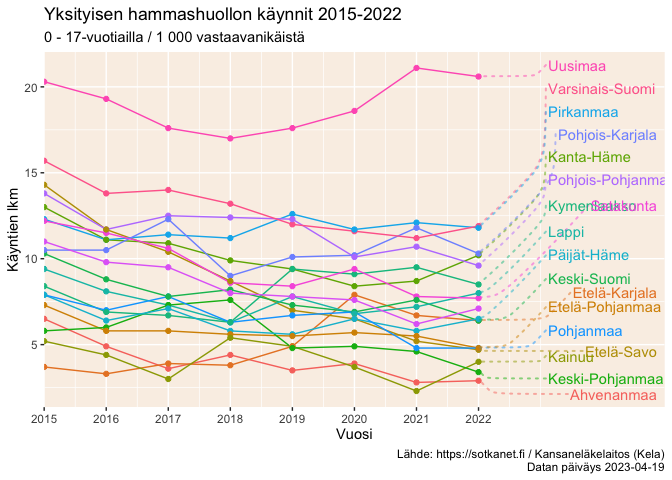
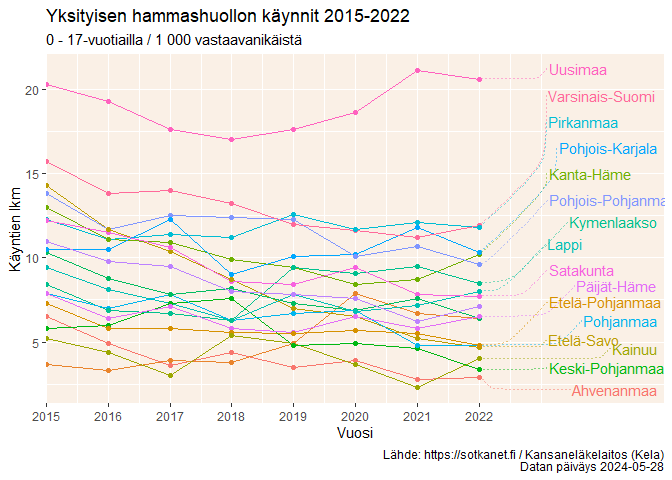
Update README

diff --git a/README.md b/README.md
@@ -72,8 +72,8 @@ List available indicators in the Sotkanet data portal:
 
 ``` r
 # Pre-defined list of indicators to save bandwidth
-sotkanet.indicators <- SotkanetIndicators(c(4,5,6,7,46,74))
-head(sotkanet.indicators$indicator.title.fi)
+sotkanet.indicators <- sotkanet_indicators(c(4,5,6,7,46,74))
+head(sotkanet.indicators$indicator.title)
 #> [1] "Mielenterveyden häiriöihin sairaalahoitoa saaneet 0 - 17-vuotiaat / 1 000 vastaavan ikäistä"             
 #> [2] "Toimeentulotukea saaneet 25 - 64-vuotiaat, % vastaavan ikäisestä väestöstä"                              
 #> [3] "Somaattisen erikoissairaanhoidon vuodeosastohoitopäivät 75 vuotta täyttäneillä / 1 000 vastaavan ikäistä"
@@ -89,24 +89,24 @@ describing private dental care use among 0-17 years old in 2015-2022.
 library(ggplot2)
 library(ggrepel)
 
-hammashoito <- GetDataSotkanet(indicators = 1075, years = 2015:2022, genders = "total", region.category = "MAAKUNTA")
+hammashoito <- get_sotkanet(indicators = 1075, years = 2015:2022, genders = "total", region.category = "MAAKUNTA")
 
 # Indicator title tells what this indicator is about
-unique(hammashoito$indicator.title.fi)
+unique(hammashoito$indicator.title)
 #> [1] "Yksityisen hammashuollon käynnit 0 - 17-vuotiailla / 1 000 vastaavan ikäistä"
 ```
 
 ``` r
 
 # Some data has to be retrieved separately
-hammashoito_metadata <- SotkanetIndicatorMetadata(id = 1075)
+hammashoito_metadata <- sotkanet_indicator_metadata(id = 1075)
 
-plot_caption <- paste0("Lähde: https://sotkanet.fi / ", hammashoito_metadata$organization$title$fi, "\n",
+plot_caption <- paste0("Lähde: https://sotkanet.fi / ", hammashoito_metadata$organization$title, "\n",
                        "Datan päiväys ", hammashoito_metadata$`data-updated`)
 
-plot <- ggplot(hammashoito, aes(x=year, y=primary.value, group=region.title.fi))+
-  geom_line(aes(color=region.title.fi)) +
-  geom_point(aes(color=region.title.fi))
+plot <- ggplot(hammashoito, aes(x=year, y=primary.value, group=region.title))+
+  geom_line(aes(color=region.title)) +
+  geom_point(aes(color=region.title))
 
 plot + labs(title = "Yksityisen hammashuollon käynnit 2015-2022",
             subtitle = "0 - 17-vuotiailla / 1 000 vastaavanikäistä",
@@ -115,7 +115,7 @@ plot + labs(title = "Yksityisen hammashuollon käynnit 2015-2022",
             caption = plot_caption,
             color = "Maakunta") +
   geom_text_repel(
-    aes(color = region.title.fi, label = ifelse(year == 2022, region.title.fi, NA_character_)),
+    aes(color = region.title, label = ifelse(year == 2022, region.title, NA_character_)),
     xlim = c(2023, 2025),
     direction = "both",
     hjust = 0,
@@ -132,10 +132,6 @@ plot + labs(title = "Yksityisen hammashuollon käynnit 2015-2022",
     expand = c(0, 0),
     limits = c(2015, 2025), 
     breaks = seq(2015, 2022))
-#> Warning: Removed 133 rows containing missing values or values outside the scale range
-#> (`geom_text_repel()`).
-#> Warning: ggrepel: 1 unlabeled data points (too many overlaps). Consider
-#> increasing max.overlaps
 ```
 
 <img src="man/figures/README-sotkanet_example-1.png" width="90%" />
